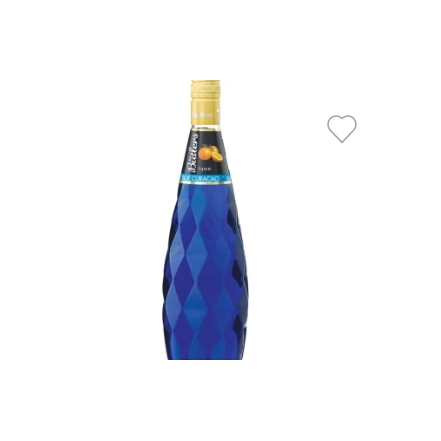
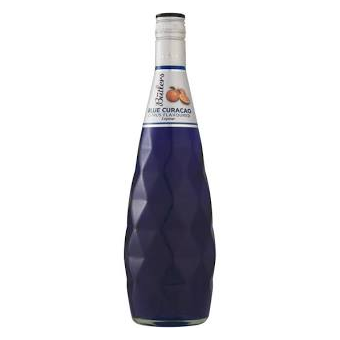
Wire 15 liqueur photos; fix Count Pushkin/Cointreau/Amarula Coffee photos being cleared on every boot
Real bottle photos for names that had none yet: Amarula Ethiopian Coffee,
Peddler's Blue Curaçao/Triple Sec, Sambuca Lupini Gold, Peach Schnapps
(Relic), Cape Velvet Cream, Cointreau Orange Liqueur, Disaronno Amaretto,
Frangelico Hazelnut, Ginger Liqueur (Butlers), Nachtmusik Chocolate,
Tequila Rose Cream. Butlers Blue Curaçao's existing photo is replaced —
the old file had a leftover retailer-site wishlist icon baked into the
corner.

Renames "Sambuca Generic Blue" to "Sambuca Lupini Blue" — the real bottle
shows the same Lupini brand as the existing Black and Gold rows, not an
unbranded generic product — and adds a new row, Amarula Raspberry
Chocolate Cream (LIQUEUR, casePriceZAR null per standing practice), a
distinct flavour from Amarula's existing Original Cream and Ethiopian
Coffee.

Also fixes a real bug this surfaced: clear-broken-brand-photos.js still
listed 'Cointreau Orange Liqueur', 'Amarula Ethiopian Coffee' and 'Count
Pushkin Vodka' as broken-photo names to null out on every boot, left over
from before real photos existed for them. That script runs last in the
boot sequence, after the photo backfills — so it was silently wiping
Count Pushkin Vodka's photo (wired in the previous commit) back to null on
every single deploy. Removed all three names now that real bottle photos
exist.

Changed region(s): [[0.3529, 0.0294, 0.6471, 0.9706], [0.7353, 0.2647, 0.8235, 0.3235]]

diff --git a/prisma/seed.js b/prisma/seed.js
@@ -294,7 +294,7 @@ const skuItems = [
   { name: 'Jagermeister Herbal Liqueur', category: 'LIQUEUR', productType: 'ALCOHOL', bottleFormat: '750ml Bottle', unitsPerCase: 12, casePriceZAR: 3686.40, palletPackQty: 60, palletPriceZAR: 211968.00, supplierPortfolio: 'Jagermeister AG' },
   { name: 'Sambuca Lupini Black', category: 'LIQUEUR', productType: 'ALCOHOL', imageUrl: '/images/brands/sambuca-lupini-black-gold.png', bottleFormat: '750ml Bottle', unitsPerCase: 12, casePriceZAR: 1958.40, palletPackQty: 60, palletPriceZAR: 112608.00, supplierPortfolio: 'Edward Snell & Co.' },
   { name: 'Sambuca Lupini Gold', category: 'LIQUEUR', productType: 'ALCOHOL', bottleFormat: '750ml Bottle', unitsPerCase: 12, casePriceZAR: 1958.40, palletPackQty: 60, palletPriceZAR: 112608.00, supplierPortfolio: 'Edward Snell & Co.' },
-  { name: 'Sambuca Generic Blue', category: 'LIQUEUR', productType: 'ALCOHOL', bottleFormat: '750ml Bottle', unitsPerCase: 12, casePriceZAR: 1612.80, palletPackQty: 60, palletPriceZAR: 92736.00, supplierPortfolio: 'Local Value Brand' },
+  { name: 'Sambuca Lupini Blue', category: 'LIQUEUR', productType: 'ALCOHOL', bottleFormat: '750ml Bottle', unitsPerCase: 12, casePriceZAR: 1612.80, palletPackQty: 60, palletPriceZAR: 92736.00, supplierPortfolio: 'Edward Snell & Co.' },
   { name: 'Sambuca Generic White', category: 'LIQUEUR', productType: 'ALCOHOL', bottleFormat: '750ml Bottle', unitsPerCase: 12, casePriceZAR: 1612.80, palletPackQty: 60, palletPriceZAR: 92736.00, supplierPortfolio: 'Local Value Brand' },
   { name: 'Tequila Rose Cream Liqueur', category: 'LIQUEUR', productType: 'ALCOHOL', bottleFormat: '750ml Bottle', unitsPerCase: 12, casePriceZAR: 2304.00, palletPackQty: 60, palletPriceZAR: 132480.00, supplierPortfolio: 'Global Premium Import' },
   { name: 'Strawberry Lips', category: 'LIQUEUR', productType: 'ALCOHOL', bottleFormat: '750ml Bottle', unitsPerCase: 12, casePriceZAR: 1612.80, palletPackQty: 60, palletPriceZAR: 92736.00, supplierPortfolio: 'DGB Portfolio' },

diff --git a/server/scripts/backfill-extracted-brand-photos.js b/server/scripts/backfill-extracted-brand-photos.js
@@ -163,6 +163,23 @@ const EXTRACTED_BRAND_IMAGES = {
   'Count Pushkin Vodka': 'count-pushkin-vodka',
   'Wyborowa Vodka': 'wyborowa-vodka',
   'Smirnoff Red No. 21': 'smirnoff-red-no-21',
+  // Liqueur round: real bottle photos for names that had none yet, the
+  // Lupini Blue rename (rename-mislabeled-skus.js) and the new Amarula
+  // Raspberry Chocolate Cream row (backfill-founder-sourced-skus.js) above.
+  'Amarula Ethiopian Coffee': 'amarula-ethiopian-coffee',
+  'Amarula Raspberry Chocolate Cream': 'amarula-raspberry-chocolate-cream',
+  "Blue Curacao (Peddler's)": 'peddlers-blue-curacao',
+  "Triple Sec (Peddler's)": 'peddlers-triple-sec',
+  'Sambuca Lupini Blue': 'sambuca-lupini-blue',
+  'Sambuca Lupini Gold': 'sambuca-lupini-gold',
+  'Peach Schnapps (Relic)': 'relic-peach-schnapps',
+  'Cape Velvet Cream': 'cape-velvet-cream',
+  'Cointreau Orange Liqueur': 'cointreau-orange-liqueur',
+  'Disaronno Amaretto Liqueur': 'disaronno-amaretto',
+  'Frangelico Hazelnut Liqueur': 'frangelico-hazelnut',
+  'Ginger Liqueur (Butlers)': 'butlers-ginger-liqueur',
+  'Nachtmusik Chocolate Liqueur': 'nachtmusik-chocolate',
+  'Tequila Rose Cream Liqueur': 'tequila-rose-cream',
 };
 
 export async function backfillExtractedBrandPhotos() {

diff --git a/server/scripts/backfill-founder-sourced-skus.js b/server/scripts/backfill-founder-sourced-skus.js
@@ -56,6 +56,10 @@ const NEW_SKUS = [
   // coffee infusion liqueur — alongside the existing Caramel/Blanco tequila
   // range, not a flavour of either.
   { name: 'Ponchos Tequila Coffee', category: 'LIQUEUR', bottleFormat: '750ml Bottle', unitsPerCase: 12 },
+  // Real bottle photo shows a distinct Amarula flavour — Raspberry
+  // Chocolate — alongside the existing Original Cream and Ethiopian
+  // Coffee, not a restyling of either.
+  { name: 'Amarula Raspberry Chocolate Cream', category: 'LIQUEUR', bottleFormat: '750ml Bottle', unitsPerCase: 12 },
 ];
 
 // Bernini Ruby Berry isn't a brand-new product — it was always the third

diff --git a/server/scripts/rename-mislabeled-skus.js b/server/scripts/rename-mislabeled-skus.js
@@ -26,6 +26,10 @@ const RENAMES = [
   // The real bottle label reads "Gordon's Pink Berry", not the generic
   // "Gordons Premium Pink" seeded before a photo arrived.
   { from: 'Gordons Premium Pink', to: 'Gordons Pink Berry' },
+  // A real bottle photo shows the "generic" blue sambuca is actually the
+  // same Lupini brand as the existing Black and Gold rows — a third Lupini
+  // flavour, not an unbranded generic product.
+  { from: 'Sambuca Generic Blue', to: 'Sambuca Lupini Blue' },
 ];
 
 export async function renameMislabeledSkus() {

diff --git a/server/scripts/clear-broken-brand-photos.js b/server/scripts/clear-broken-brand-photos.js
@@ -15,10 +15,7 @@ const BROKEN_PHOTO_NAMES = [
   // all split into per-flavour rows (split-bundled-flavour-skus.js), which
   // now have their own real photos.
   'Three Ships 5 Year Old',
-  'Cointreau Orange Liqueur',
   'Amarula Original Cream',
-  'Amarula Ethiopian Coffee',
-  'Count Pushkin Vodka',
   'Skyy Vodka Original',
 ];
 
